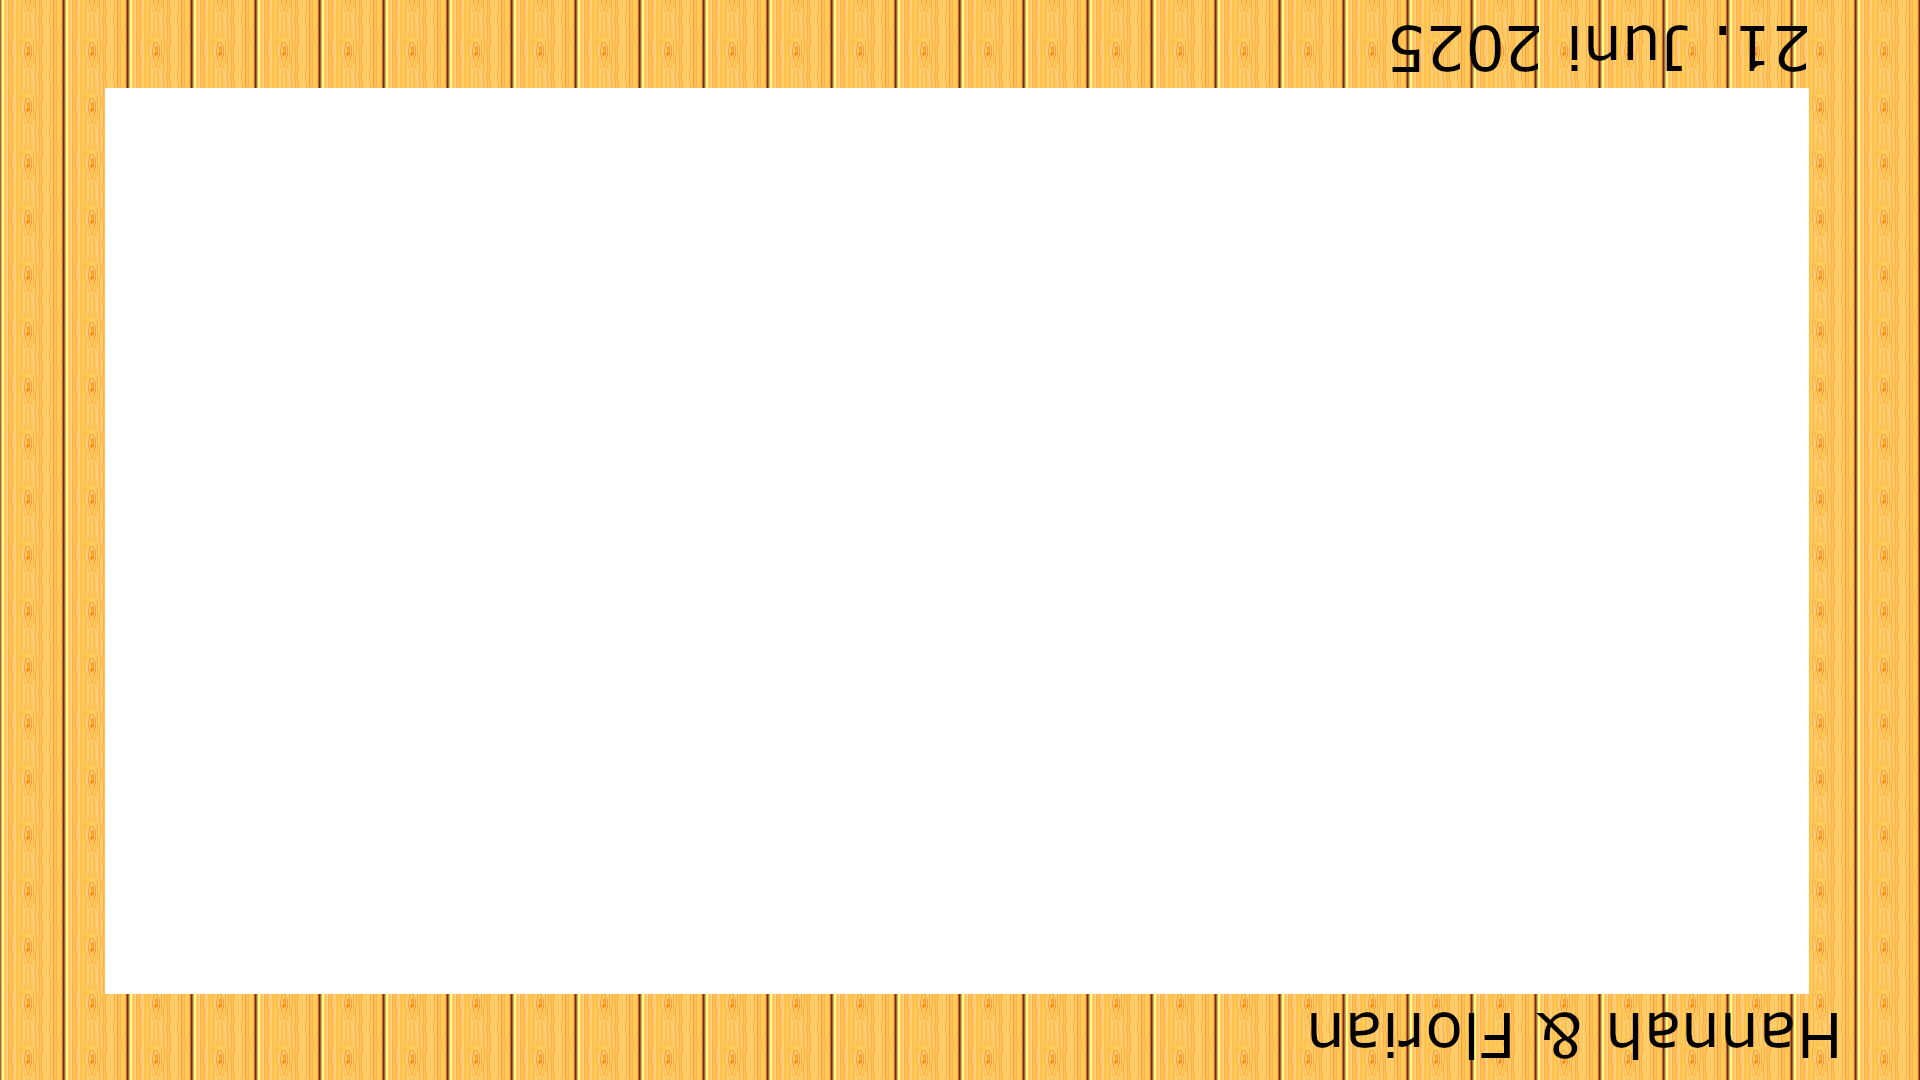
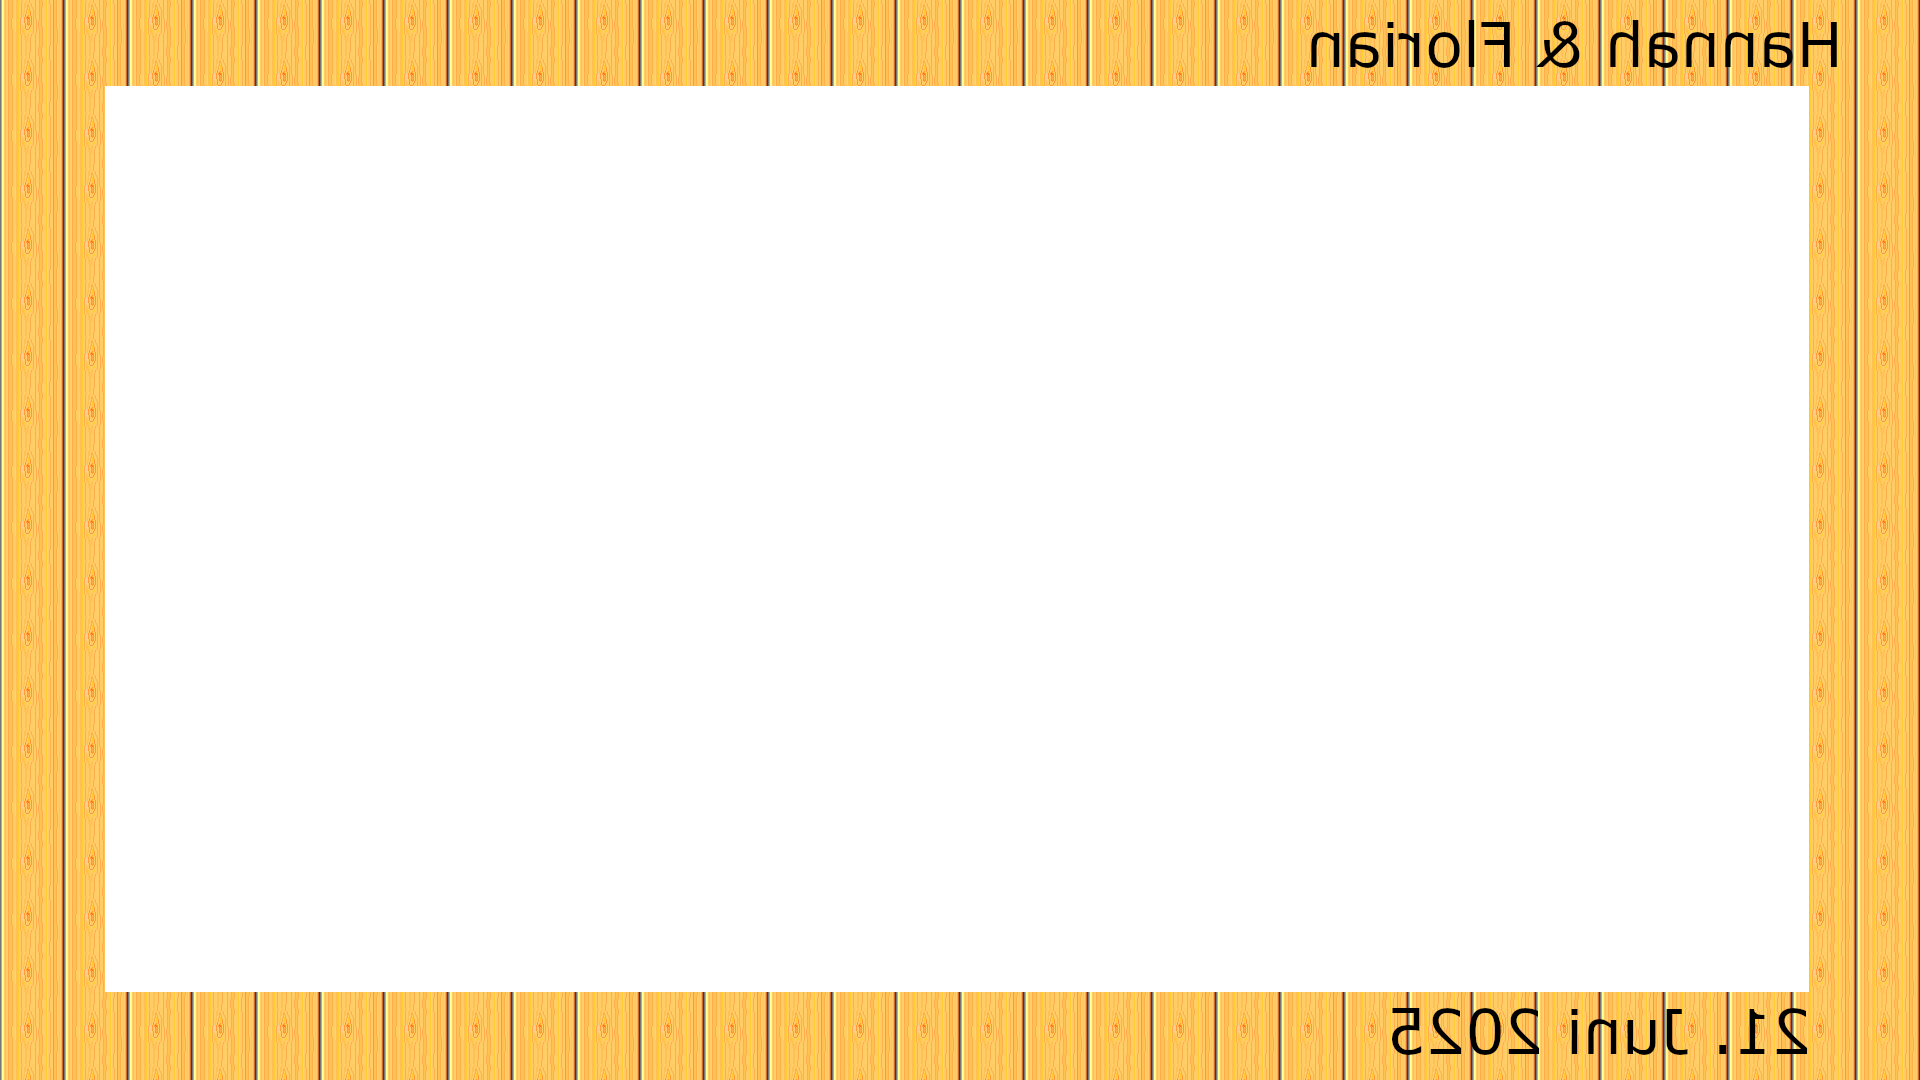
added files

Changed region(s): [[0.0, 0.0, 1.0, 1.0]]

diff --git a/pythonProject/main.py b/pythonProject/main.py
@@ -25,7 +25,7 @@ frame_image = pygame.image.load(frame_path)
 
 # Create a Pygame window
 
-screen = pygame.display.set_mode((screen_width, screen_height))
+screen = pygame.display.set_mode((screen_width, screen_height),pygame.FULLSCREEN)
 
 fotoframe= cv2.imread("frame.png")
 fotoframe = cv2.resize(fotoframe,(camera_width+2*fotoframe_boader,camera_height+2*fotoframe_boader))
@@ -35,8 +35,8 @@ print(fotoframe.shape)
 
 def get_cam_frame(camera):
     retval, image = camera.read()
-    fotoframe[100:2260,100:3940] = image
-    #fotoframe[fotoframe_boader:(camera_height+fotoframe_boader),fotoframe_boader:(camera_width+fotoframe_boader)] = image
+    #fotoframe[100:2260,100:3940] = image
+    fotoframe[fotoframe_boader:(camera_height+fotoframe_boader),fotoframe_boader:(camera_width+fotoframe_boader)] = image
     frame = cv2.resize(fotoframe,(screen_width,screen_height))
     frame = cv2.cvtColor(frame,cv2.COLOR_RGB2BGR)
     frame = np.rot90(frame)

diff --git a/pythonProject/redme.md b/pythonProject/redme.md
@@ -1,0 +1,7 @@
+Install SDL2 (and extras) which is required by pygame 2+:
+
+sudo apt-get install libsdl2-*
+
+Install opencv
+
+sudo apt-get install python3-opencv  
